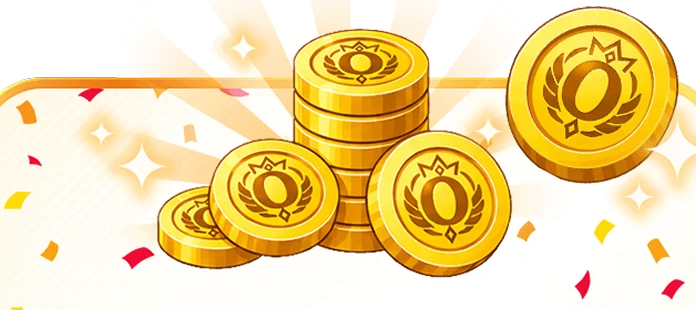
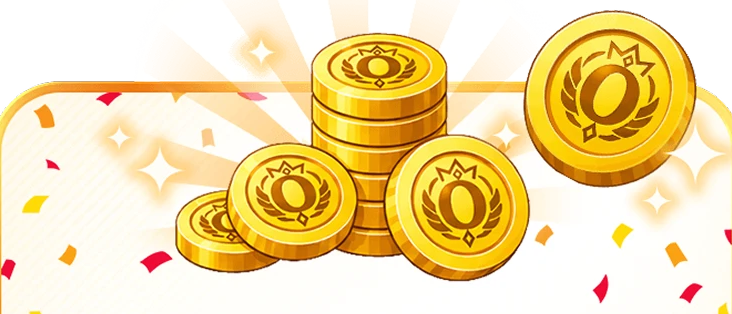
Phone verification: match the code step and show the coins
The code step was built at roughly half the design's scale. Measured off
the mockup — it exports at 2x — the title, the sent-to line, the code
boxes and the CTA all grow, and Edit Phone Number takes the pill it has
in the design.

The reward card showed the coins as a small inset. The art carries the
card's own top corners and the pile that spills above them, so it now
runs full-bleed with the panel picking the gold border up underneath,
which is how the design reads.

diff --git a/app/components/oripa.tsx b/app/components/oripa.tsx
@@ -3688,8 +3688,8 @@ function PhoneVerifyFlow({ lang, onClose, onVerified }: { lang: Lang; onClose: (
     if (d && i < 5) boxes.current[i + 1]?.focus();
   };
 
-  const cardCls = "relative w-full max-w-[330px] overflow-hidden rounded-[18px] border-[3px] border-[#F3B829] bg-[#FFFCF2] px-5 pb-5 pt-4 text-center shadow-[0_18px_50px_rgba(0,0,0,0.45)]";
-  const ctaCls = "flex h-[42px] w-full items-center justify-center rounded-[8px] bg-[#D10005] text-[15px] font-extrabold text-white active:scale-[0.98]";
+  const cardCls = "relative w-full max-w-[330px] overflow-hidden rounded-[18px] border-[3px] border-[#F3B829] bg-[#FFFEF8] px-5 pb-5 pt-4 text-center shadow-[0_18px_50px_rgba(0,0,0,0.45)]";
+  const ctaCls = "flex h-[50px] w-full items-center justify-center rounded-[10px] bg-[#D10005] text-[16px] font-extrabold text-white active:scale-[0.98]";
 
   return (
     <div className="animate-popup-backdrop absolute inset-0 z-[85] flex items-center justify-center p-4" style={{ background: "rgba(20,8,4,0.62)", fontFamily: "var(--font-noto-sans-jp), system-ui, sans-serif" }} role="dialog" aria-modal="true">
@@ -3713,8 +3713,8 @@ function PhoneVerifyFlow({ lang, onClose, onVerified }: { lang: Lang; onClose: (
           <img src="/verify-banner.png" alt="" draggable={false} className="w-full select-none object-cover" />
           <div className="px-5 pb-5 pt-4">
             <button onClick={onClose} aria-label={t.closeAria} className="absolute right-4 top-4 flex h-7 w-7 items-center justify-center rounded-full bg-white/80 text-[16px] font-bold text-[#5c626b]">✕</button>
-            <h3 className="text-[18px] font-extrabold text-[#1d2129]">{t.pvFormTitle}</h3>
-            <p className="mt-2 text-[12px] font-medium leading-[1.5] text-[#5c626b]">{t.pvFormBody}</p>
+            <h3 className="text-[20px] font-extrabold leading-tight text-[#1d2129]">{t.pvFormTitle}</h3>
+            <p className="mt-2.5 text-[12px] font-medium leading-[1.55] text-[#5c626b]">{t.pvFormBody}</p>
 
             {step === "phone" ? (
               <>
@@ -3733,9 +3733,9 @@ function PhoneVerifyFlow({ lang, onClose, onVerified }: { lang: Lang; onClose: (
             ) : (
               <>
                 <div className="my-3 border-t border-black/10" />
-                <p className="text-[13px] font-semibold leading-[1.5] text-[#1d2129]">{t.pvSentTo(`+81 ${phone}`)}</p>
-                <button onClick={() => setStep("phone")} className="mt-2.5 rounded-[8px] border border-[#1d2129] px-4 py-2 text-[13px] font-bold text-[#1d2129] active:opacity-70">{t.pvEditPhone}</button>
-                <p className="mt-4 text-[17px] font-extrabold text-[#1d2129]">{t.pvEnterCode}</p>
+                <p className="text-center text-[14px] font-semibold leading-[1.45] text-[#1d2129]">{t.pvSentTo(`+81 ${phone}`)}</p>
+                <button onClick={() => setStep("phone")} className="mx-auto mt-3 block rounded-full border border-[#1d2129] px-6 py-2 text-[12px] font-bold text-[#1d2129] active:opacity-70">{t.pvEditPhone}</button>
+                <p className="mt-5 text-[17px] font-extrabold text-[#1d2129]">{t.pvEnterCode}</p>
                 <div className="mt-3 flex justify-center gap-2">
                   {digits.map((d, i) => (
                     <input
@@ -3746,11 +3746,11 @@ function PhoneVerifyFlow({ lang, onClose, onVerified }: { lang: Lang; onClose: (
                       onKeyDown={(e) => { if (e.key === "Backspace" && !digits[i] && i > 0) boxes.current[i - 1]?.focus(); }}
                       inputMode="numeric"
                       aria-label={`${t.pvEnterCode} ${i + 1}`}
-                      className="h-[48px] w-[44px] rounded-[8px] border border-[#e2e5ea] bg-[#f7f8fa] text-center text-[20px] font-bold text-[#1d2129] outline-none focus:border-[#D10005]"
+                      className="h-[56px] w-[44px] rounded-[10px] border border-[#e2e5ea] bg-[#f7f8fa] text-center text-[22px] font-bold text-[#1d2129] outline-none focus:border-[#D10005]"
                     />
                   ))}
                 </div>
-                <p className="mt-3 text-[11px] font-bold tracking-wide text-[#8a9099]">
+                <p className="mt-4 text-[10px] font-bold tracking-wide text-[#8a9099]">
                   {t.pvNoCode}{" "}
                   <button onClick={sendCode} className="underline underline-offset-2 active:opacity-70">{t.pvResend} ✓</button>
                 </p>
@@ -3762,15 +3762,20 @@ function PhoneVerifyFlow({ lang, onClose, onVerified }: { lang: Lang; onClose: (
       )}
 
       {step === "done" && (
-        <div className={`animate-popup-pop ${cardCls}`}>
-          <img src="/verify-coins.png" alt="" draggable={false} className="mx-auto h-[150px] w-auto select-none object-contain" />
-          <p className="mt-1 text-[26px] font-extrabold leading-none text-[#D10005]">{t.pvDoneAmount}</p>
-          <p className="mt-1.5 text-[18px] font-extrabold text-[#1d2129]">{t.pvDoneSub}</p>
-          <div className="mt-3 flex h-[44px] items-center justify-center gap-2 rounded-[10px] bg-white">
-            <img src="/coin.png" alt="" aria-hidden className="h-5 w-5 object-contain" />
-            <span className="text-[16px] font-extrabold text-[#16a34a]">+ 500</span>
+        /* The coin art carries the card's own top corners and the pile that
+           spills above them, so it runs full-bleed and the panel picks the
+           border up underneath. */
+        <div className="animate-popup-pop w-full max-w-[330px] drop-shadow-[0_18px_40px_rgba(0,0,0,0.45)]">
+          <img src="/verify-coins.png" alt="" draggable={false} className="block w-full select-none" />
+          <div className="-mt-px rounded-b-[18px] border-x-[3px] border-b-[3px] border-[#F3B829] bg-[#FFFEF8] px-5 pb-5 pt-1 text-center">
+            <p className="text-[28px] font-extrabold leading-none text-[#D10005]">{t.pvDoneAmount}</p>
+            <p className="mt-2 text-[19px] font-extrabold text-[#1d2129]">{t.pvDoneSub}</p>
+            <div className="mt-3 flex h-[44px] items-center justify-center gap-2 rounded-[10px] border border-black/5 bg-white">
+              <img src="/coin.png" alt="" aria-hidden className="h-5 w-5 object-contain" />
+              <span className="text-[16px] font-extrabold text-[#16a34a]">+ 500</span>
+            </div>
+            <button onClick={onClose} className={`mt-3 ${ctaCls}`}>{t.pvDoneCta}</button>
           </div>
-          <button onClick={onClose} className={`mt-3 ${ctaCls}`}>{t.pvDoneCta}</button>
         </div>
       )}
 

diff --git a/app/version.ts b/app/version.ts
@@ -1,2 +1,2 @@
 // Auto-bumped on each commit by scripts/bump-version.mjs
-export const APP_VERSION = "v44.0";
+export const APP_VERSION = "v44.1";
